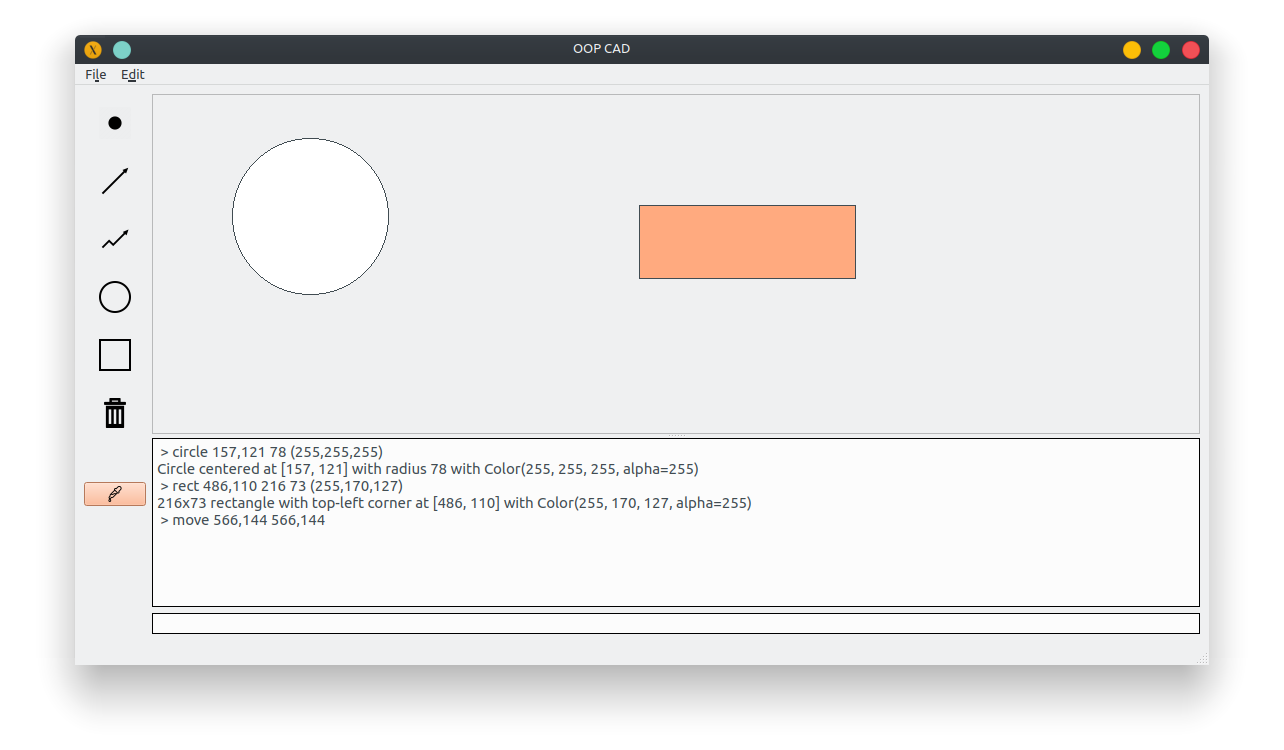
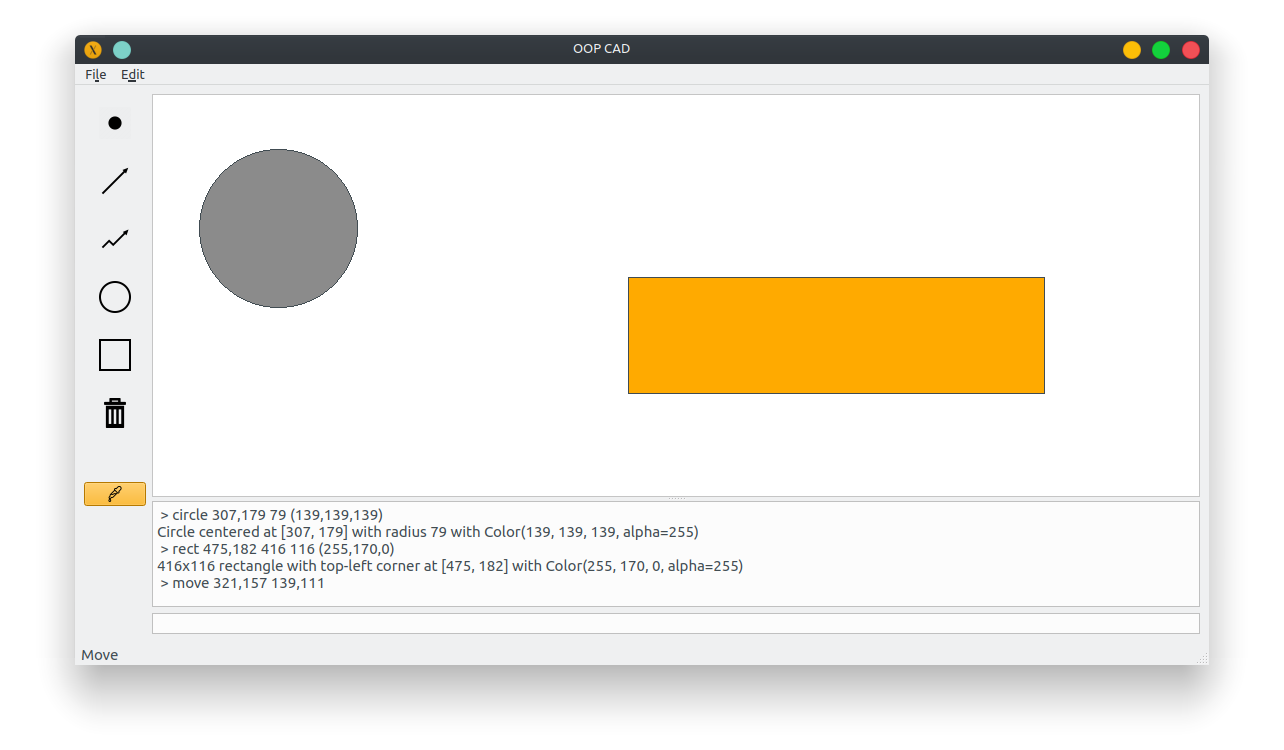
Edited screenshot and canvas background color.

diff --git a/app/ui/main_window.py b/app/ui/main_window.py
@@ -172,11 +172,11 @@ class Ui_MainWindow(object):
         self.verticalLayout_2.setContentsMargins(0, 0, 0, 0)
         self.verticalLayout_2.setObjectName("verticalLayout_2")
         self.history = QtWidgets.QTextBrowser(self.verticalLayoutWidget)
-        self.history.setStyleSheet("border: 1px solid black;")
+        self.history.setStyleSheet("border: 1px solid silver;")
         self.history.setObjectName("history")
         self.verticalLayout_2.addWidget(self.history)
         self.manualInput = QtWidgets.QLineEdit(self.verticalLayoutWidget)
-        self.manualInput.setStyleSheet("border: 1px solid black;")
+        self.manualInput.setStyleSheet("border: 1px solid silver;")
         self.manualInput.setObjectName("manualInput")
         self.verticalLayout_2.addWidget(self.manualInput)
         self.canvasAndInput.addWidget(self.splitter)

diff --git a/app/gui.py b/app/gui.py
@@ -101,6 +101,7 @@ class MainWindow(QtWidgets.QMainWindow):
         )
 
         self._ui.canvasHolder.setWidget(self.canvas)
+        self._ui.canvasHolder.setStyleSheet('background-color: white')
 
     # ------------------------------------------------ Handlers -------------------------------------------------------
 

diff --git a/app/canvas.py b/app/canvas.py
@@ -13,6 +13,7 @@ class Canvas(QtWidgets.QWidget):
 
     def __init__(self, controller):
         super().__init__()
+        self.setStyleSheet('background-color: red')
         self._controller = controller
         self.brush = MoveShapeBrush()
         self.setCursor(self.brush.cursor)
